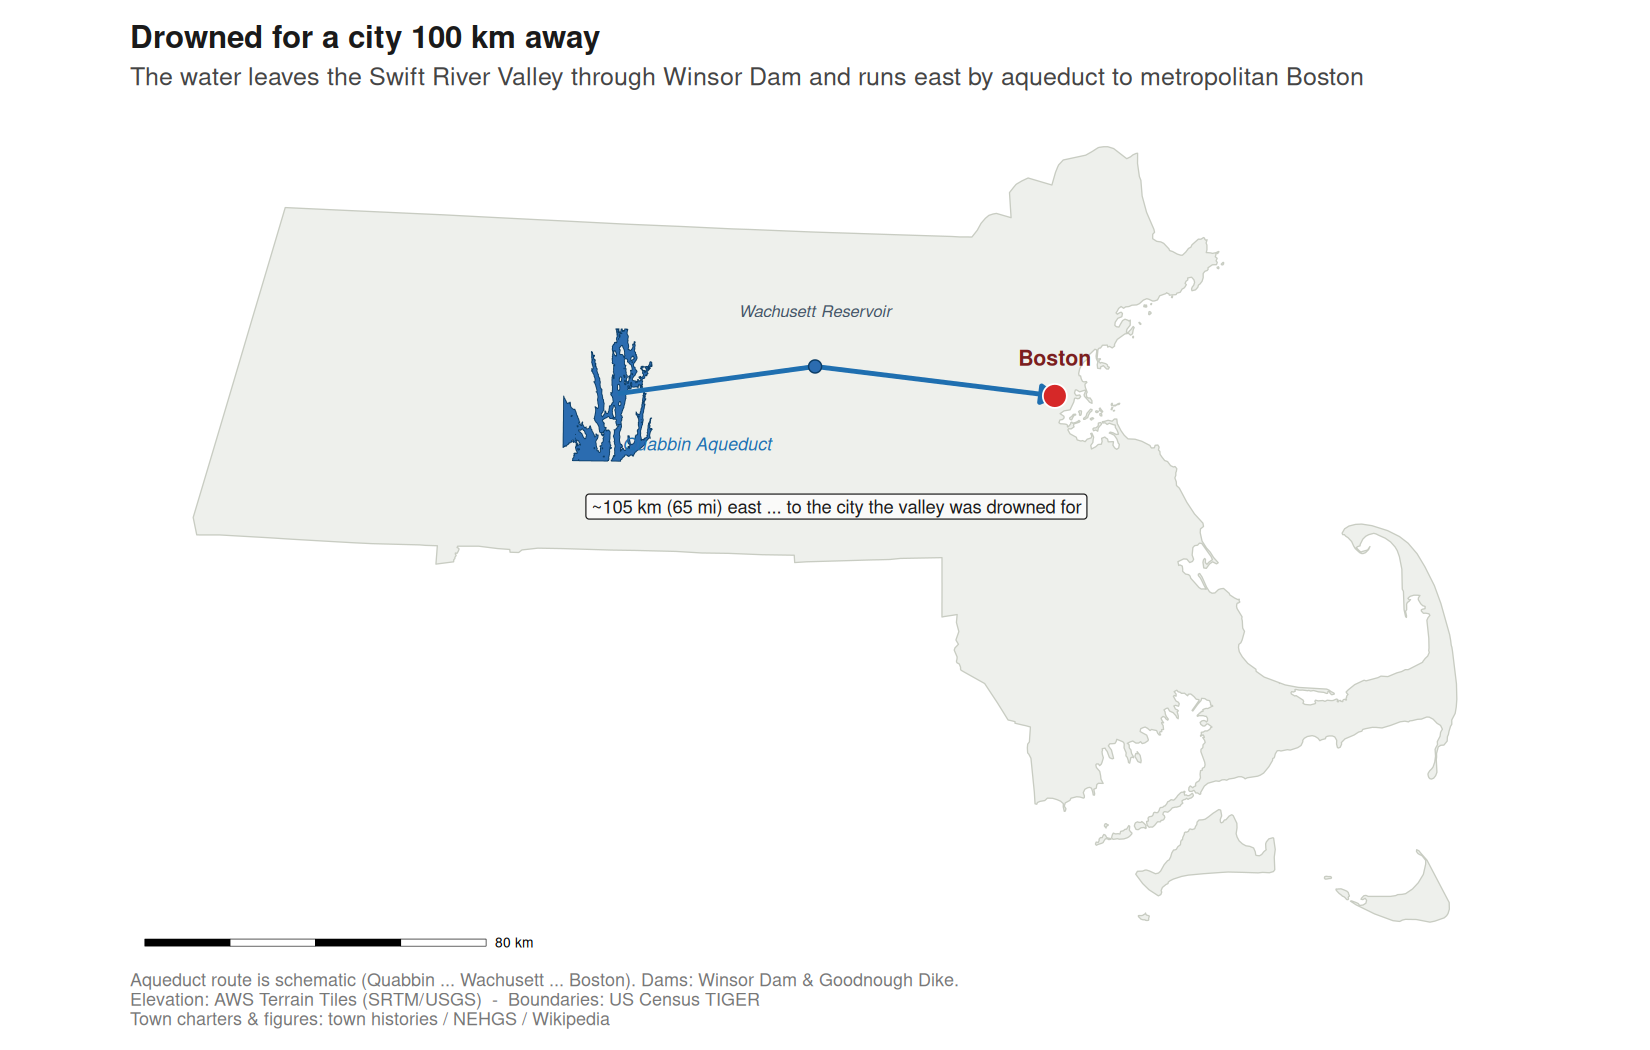
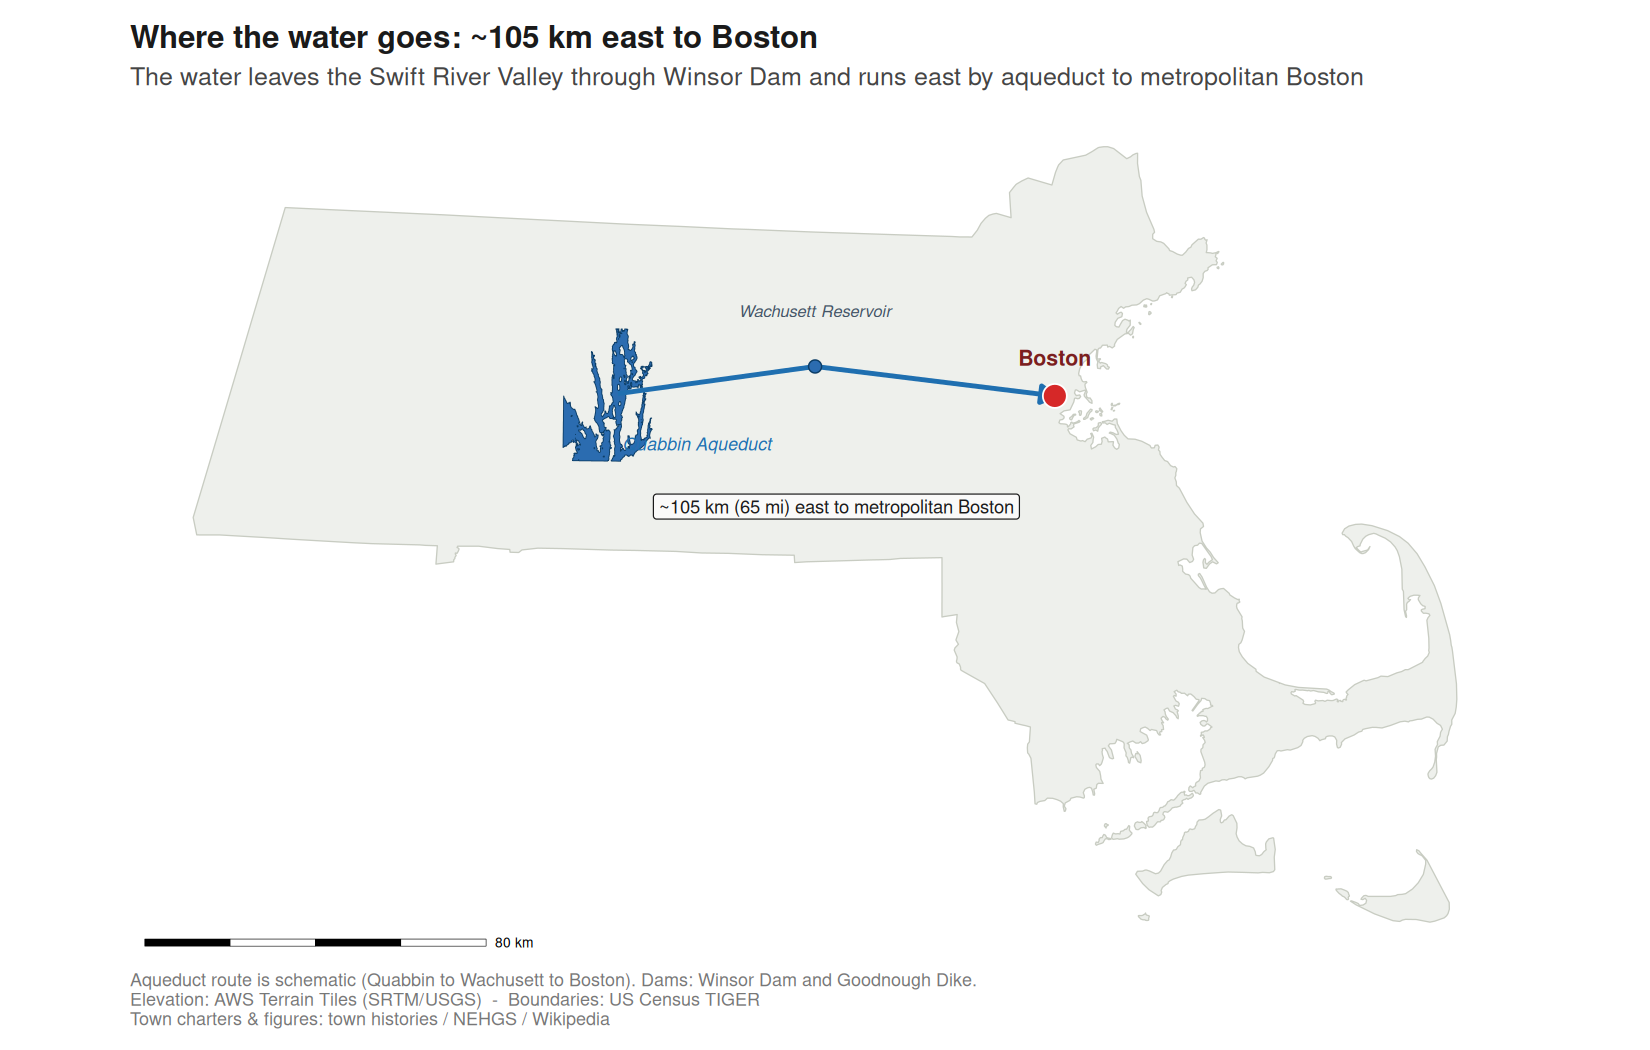
Quabbin audit fixes: render-safe figure text, neutral tone in figures, accurate distance (#21)
Make figure text render-safe (ASCII, no missing glyphs), neutralize the figure titles/captions the earlier tone pass missed, and standardize the Boston distance to the computed ~105 km (65 mi). From a full read-through audit.

Changed region(s): [[0.0618, 0.0, 0.4945, 0.061], [0.3709, 0.4571, 0.6491, 0.4876], [0.4945, 0.9143, 0.5873, 0.9448]]

diff --git a/map/index.html b/map/index.html
@@ -87,7 +87,7 @@
 
 <div id="flood" class="panel">
   <span class="lab">valley floor</span>
-  <input id="slider" type="range" min="1" max="10" value="10" step="1">
+  <input id="slider" type="range" min="1" max="14" value="14" step="1">
   <span class="lab">full pool</span>
   <span class="read" id="readout">530 ft · 100% full</span>
   <button id="play">▶ Play</button>

diff --git a/README.md b/README.md
@@ -4,7 +4,7 @@ A reproducible **R** GIS study of the Quabbin Reservoir, Massachusetts, created
 between 1938 and 1946 by damming and flooding the Swift River Valley. Four towns
 — **Dana, Enfield, Greenwich, and Prescott** — were disincorporated on 28 April
 1938 and about 2,500 residents were relocated; the reservoir supplies
-metropolitan Boston, roughly 100 km (65 miles) to the east.
+metropolitan Boston, roughly 105 km (65 miles) to the east.
 
 It is a *multi-layer study*: several spatial layers that, read together, describe
 how the reservoir was sited and what it replaced — a valley whose terrain forms a
@@ -26,7 +26,7 @@ present-day map in which their land has been absorbed by the surrounding towns.
 | 7 | `07_population_decline.png` | Decennial census population, 1900–1920 | US Census 1920 (Number of Inhabitants) |
 | 8 | `08_hero.png` | Terrain, reservoir, and the former town sites together | all of the above |
 | 9 | `09_floodfill.png` | The reservoir filling in stages to the 530-ft full pool | DEM |
-| 10 | `10_aqueduct.png` | The aqueduct route, ~100 km east to Boston | hand-placed coordinates |
+| 10 | `10_aqueduct.png` | The aqueduct route, ~105 km east to Boston | hand-placed coordinates |
 | 11 | `11_crosssection.png` | West-east valley cross-section at the 530-ft pool | DEM |
 | 12 | `12_losses.png` | "By the numbers": what was removed and what is supplied | MWRA / DCR / histories |
 | 13 | `13_terrain3d.png` | 3D view of the valley and reservoir | DEM (`persp`) |
@@ -131,7 +131,7 @@ never breaks the run — it degrades to a documented fallback instead.
   window, 1939–1946, is annotated).
 - **Aqueduct & dams** — the route (Quabbin → Wachusett → Boston) and the dams
   (Winsor Dam, Goodnough Dike) are **hand-placed from known coordinates** and
-  labeled schematic; they convey the ~100 km eastward course of the water, not a
+  labeled schematic; they convey the ~105 km eastward course of the water, not a
   surveyed alignment.
 - **Cross-section** (`08_profile.R`) — a west-east transect of the DEM at the
   reservoir's widest point. The DEM retains sub-pool relief of the drowned valley,
